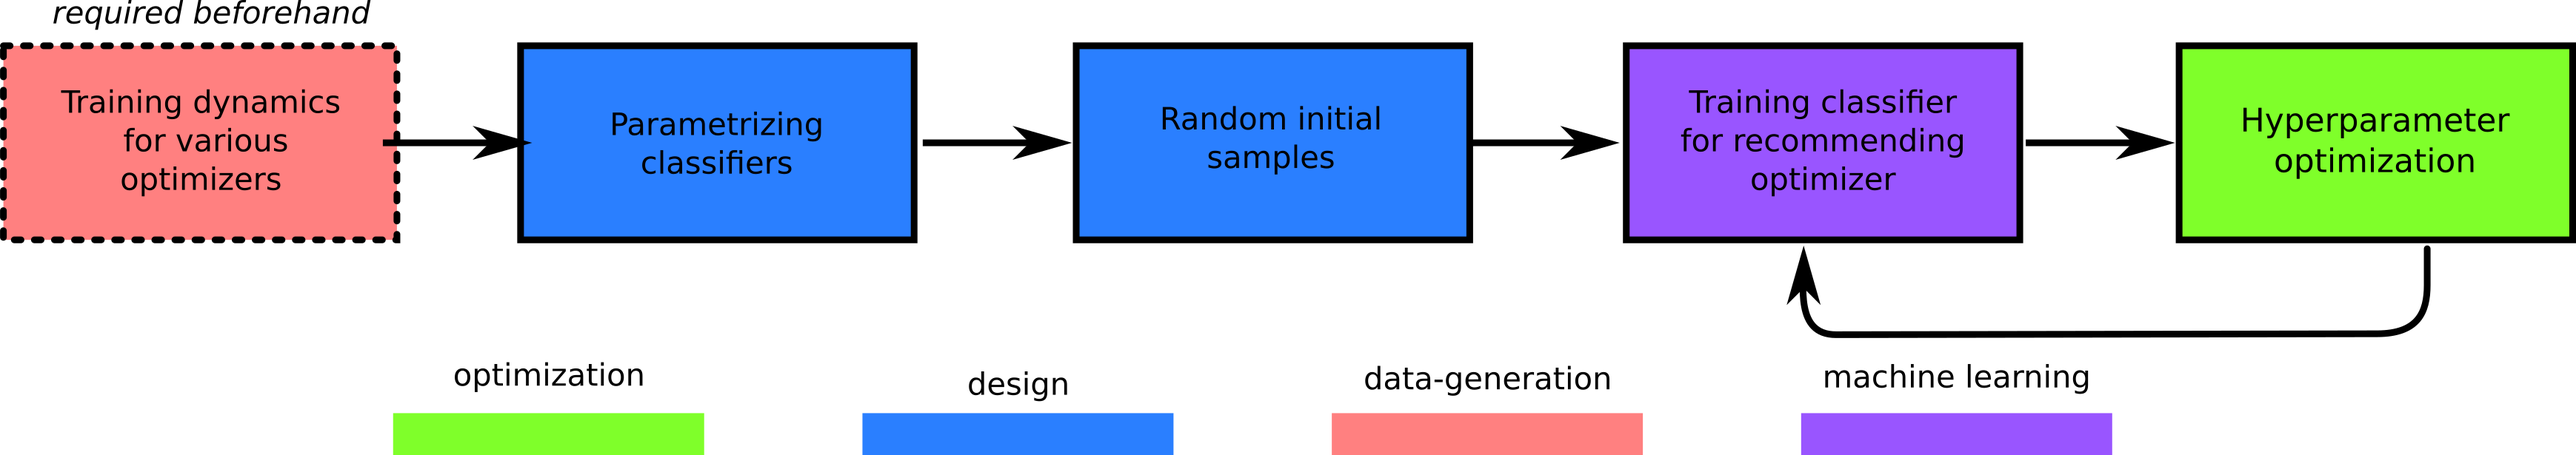
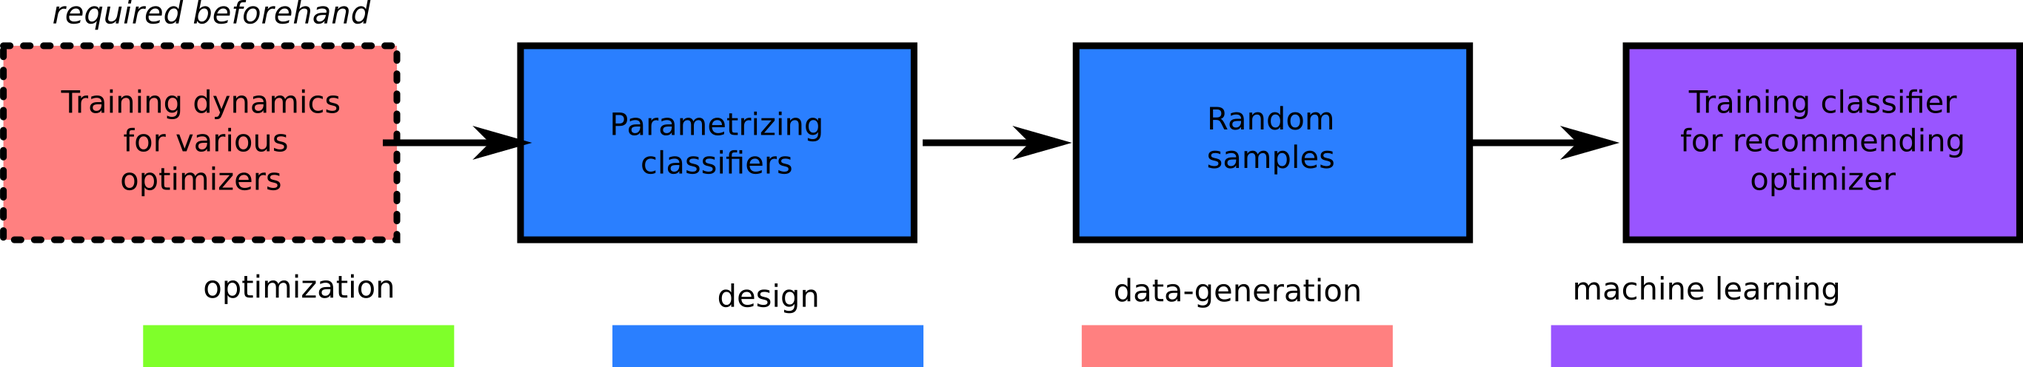
updated experiment

diff --git a/experiments/investigate_stage0/main.py b/experiments/investigate_stage0/main.py
@@ -1,0 +1,95 @@
+#                                                                       Modules
+# =============================================================================
+
+# Standard
+from pathlib import Path
+from time import sleep
+
+# Third-party
+import f3dasm
+import hydra
+from f3dasm import logger as f3dasm_logger
+from train_classifier import ClassifierConstructer
+
+# Local
+from l2co._logging import logger as logger
+
+#                                                          Authorship & Credits
+# =============================================================================
+__author__ = 'Martin van der Schelling (M.P.vanderSchelling@tudelft.nl)'
+__credits__ = ['Martin van der Schelling']
+__status__ = 'Planning'
+# =============================================================================
+#
+# =============================================================================
+
+def pre_processing(config):
+    """Pre-processing steps
+
+    Parameters
+    ----------
+    config
+        Configuration parameters defined in config.yaml
+    """
+    data = f3dasm.ExperimentData.from_yaml(config.experimentdata)
+    data.store()
+    logger.info("Stored experiment data")
+
+def process(config):
+    """Main process to execute
+
+    Parameters
+    ----------
+    config
+        Configuration parameters defined in config.yaml
+    """
+    # Retrieve the ExperimentData object
+    try:
+        data = f3dasm.ExperimentData.from_file(Path().cwd())
+    except FileNotFoundError:
+        sleep(60)
+        data = f3dasm.ExperimentData.from_file(Path().cwd())
+
+    # Retrieve the training and testing data
+    training_data = f3dasm.ExperimentData.from_file(config.data.training)
+    testing_data = f3dasm.ExperimentData.from_file(config.data.testing)
+
+    # Construct the classifier constructer
+    classifier = ClassifierConstructer(training_data=training_data,
+                                       testing_data=testing_data)
+
+    # Evaluate the different classifiers
+    data.evaluate(classifier,
+                  mode=config.mode,
+                  kwargs={'training_data': training_data,
+                          'testing_data': testing_data})
+
+    if config.mode == 'sequential':
+        # Store the ExperimentData to a csv file
+        data.store()
+
+
+@hydra.main(config_path=".", config_name="config")
+def main(config):
+    """Main script to call
+
+    Parameters
+    ----------
+    config
+        Configuration parameters defined in config.yaml
+    """
+
+    logger.setLevel(config.log_level)
+    f3dasm_logger.setLevel(config.log_level)
+    # Execute the initial_script for the first job
+    if config.hpc.jobid == 0:
+        pre_processing(config)
+        process(config)
+
+    elif config.hpc.jobid == -1:  # Sequential
+        pre_processing(config)
+        process(config)
+
+    else:
+        sleep(3*config.hpc.jobid)  # Just to asynchronize the jobs
+        process(config)

diff --git a/experiments/investigate_stage0/train_classifier.py b/experiments/investigate_stage0/train_classifier.py
@@ -1,0 +1,9 @@
+from f3dasm.datageneration import DataGenerator
+
+
+class ClassifierConstructer(DataGenerator):
+    def execute(self):
+        """
+        :)
+        """
+        ...

diff --git a/experiments/investigate_stage0/README.md b/experiments/investigate_stage0/README.md
@@ -1,4 +1,4 @@
-# Create trainingdata two optimizers
+# Investigate stage 0
 
 <center>
 <img src="./img/data-driven-process.png" alt="drawing" width=100%/>
@@ -12,7 +12,7 @@ After we have [created a training and testing benchmarkfunction set](https://git
 <img src="./img/stage0.png" alt="drawing" width=50%/>
 </center>
 
-In this experiment, we perform **hyper-parameter optimization** of **parametrized classification models**: 
+In this experiment, we evaluate **parametrized classification models** on a **previously acquired dataset of training dynamics**: 
 
 * We will use [available prior knowledge](#problem-specific-characteristics) about the loss-landscape characteristics as features of the classifier.
 * The labels will be determined by the optimizer that performans the best on a problem according to a [custom metric](#determining-performance)
@@ -20,11 +20,10 @@ In this experiment, we perform **hyper-parameter optimization** of **parametrize
 This experiment will be as follows:
 
 * Loading the training and testing datasets as `f3dasm.ExperimentData` objects.
-* Construct a parametrized classifier and sample one initial instance.
+* Construct a parametrized classifier and sample instances.
 * Train a classifier on the training dataset.
 * Evaluate the classifier on the testing dataset and report error metrics.
 * Roll-out the classifier on the testing dataset and report the performance of the '`stage_0`'-recommender system with the [performance profile metric](https://www.numerical.rl.ac.uk/people/j_scott/publications/2016/GouldScott.2016_TOMS.pdf)
-* Update the domain by optimizing for the classification metrics thus performing hyper-parameter optimization on the parametrized classifier.
 
 ### Determining performance
 
@@ -135,32 +134,21 @@ outputs/
 
 ## Explanation of `config.yaml` parameters
 
+### Dataset
+
+| Name  | Type   | Description |
+|-------|--------|-------------|
+| train | `str` | Project directory path to the training dataset |
+| test  | `str` | Project directory path to the testing dataset  |
+
 ### Domain
-#### Function Name
+#### Classifier model name
 | Name       | Type     | Description                |
 |------------|----------|----------------------------|
-| categories | `List[str]`     | List of benchmark functions ([reference](https://f3dasm.readthedocs.io/en/latest/rst_doc_files/classes/datageneration/functions.html)) |
+| value | `str`     | Name of classifier (implemented by `l2co`) |
 
-#### Dimensionality
-| Name       | Type     | Description                |
-|------------|----------|----------------------------|
-| categories | `List[int]`     | List of possible values of the function dimensionality |
+_arbitrary number of hyperparameters for the classifier can be added_
 
-#### Noise
-| Name       | Type     | Description                |
-|------------|----------|----------------------------|
-| categories | `List[float]`     | List of possible values of the function noise standard deviation    |
-
-#### Seed
-| Name | Type | Description         |
-|------|------|---------------------|
-| low  | `int`  | Lower bound value of random seeds    |
-| high | `int`  | Upper bound value of random seeds    |
-
-#### Budget
-| Name  | Type     | Description           |
-|-------|----------|-----------------------|
-| value | `int`      | Maximum number of iterations          |
 
 ### Experiment Data
 #### From Sampling
@@ -171,18 +159,6 @@ outputs/
 | n_samples    | `int`    | Number of samples       |
 | domain       | `f3dasm.Domain` | `f3dasm` Domain object ([reference](https://f3dasm.readthedocs.io/en/latest/rst_doc_files/classes/design/domain.html))            |
 
-### Mode
-| Name  | Type   | Description |
-|-------|--------|-------------|
-| mode  | string | Evaluation mode of `f3dasm` ([reference](https://f3dasm.readthedocs.io/en/latest/rst_doc_files/classes/datageneration/datagenerator.html#)) |
-
-
-### Dataset
-
-| Name  | Type   | Description |
-|-------|--------|-------------|
-| data_train | `str` | Project directory path to the training dataset |
-| data_test  | `str` | Project directory path to the testing dataset  |
 
 ### HPC
 | Name   | Type | Description  |

diff --git a/README.md b/README.md
@@ -59,6 +59,7 @@ The following experiments are currently implemented:
 | ---------- | ----------- | ------ |
 | [`create_training_data_two_optimizers`](https://github.com/bessagroup/L2CO/tree/main/experiments/create_trainingdata_two_optimizers) | Creates the training data for the two-optimizer experiments. | Stable |
 | [`recommend_optimizer`](https://github.com/bessagroup/L2CO/tree/main/experiments/recommend_optimizer) | Train and test the recommender system model to recommend optimizers. | Under development |
+| [`investigate_stage0`](https://github.com/bessagroup/L2CO/tree/main/experiments/investigate_stage0) | Hyperparameter optimization of classification models for 'stage 0' in the recommendation process | Under development |
 
 ## Community Support
 

diff --git a/experiments/README.md b/experiments/README.md
@@ -6,3 +6,4 @@ This directory contains the experiments that were run for the paper.
 | ---------- | ----------- | ------ |
 | [`create_training_data_two_optimizers`](https://github.com/bessagroup/L2CO/tree/main/experiments/create_trainingdata_two_optimizers) | Creates the training data for the two-optimizer experiments. | Stable |
 | [`recommend_optimizer`](https://github.com/bessagroup/L2CO/tree/main/experiments/recommend_optimizer) | Train and test the recommender system model to recommend optimizers. | Under development |
+| [`investigate_stage0`](https://github.com/bessagroup/L2CO/tree/main/experiments/investigate_stage0) | Hyperparameter optimization of classification models for 'stage 0' in the recommendation process | Under development |
